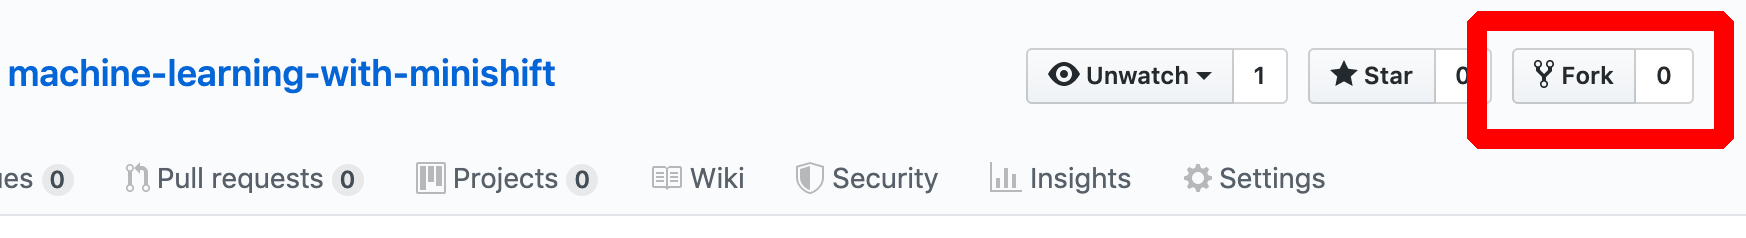
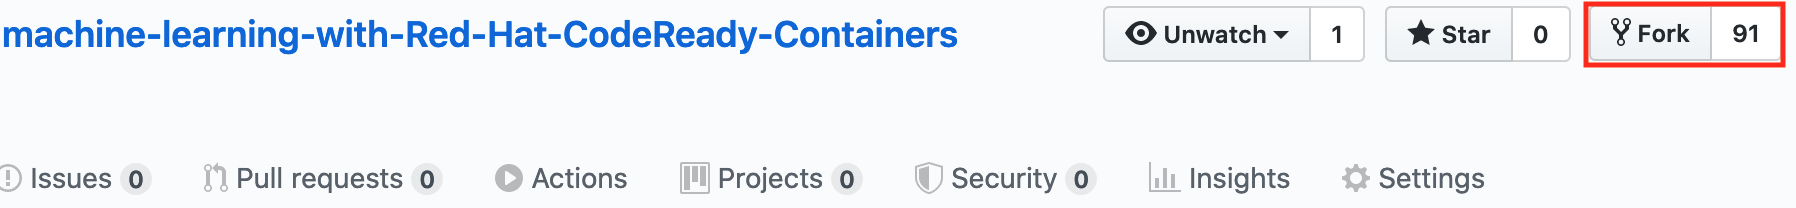
Application code

Changed region(s): [[0.5876, 0.0, 1.0, 0.6346], [0.0, 0.6923, 0.8351, 0.9519], [0.0, 0.0865, 0.5567, 0.4038]]

diff --git a/train.py b/train.py
@@ -1,0 +1,68 @@
+import tensorflow as tf
+import keras
+from keras.datasets import mnist
+from keras.models import Sequential
+from keras.layers import Dense, Dropout, Flatten
+from keras.layers import Conv2D, MaxPooling2D
+from keras import backend as K
+
+def start():
+
+    batch_size = 128
+    num_classes = 10
+    epochs = 12
+
+    # input image dimensions
+    img_rows, img_cols = 28, 28
+
+    # the data, split between train and test sets
+    (x_train, y_train), (x_test, y_test) = mnist.load_data()
+
+
+    if K.image_data_format() == 'channels_first':
+        x_train = x_train.reshape(x_train.shape[0], 1, img_rows, img_cols)
+        x_test = x_test.reshape(x_test.shape[0], 1, img_rows, img_cols)
+        input_shape = (1, img_rows, img_cols)
+    else:
+        x_train = x_train.reshape(x_train.shape[0], img_rows, img_cols, 1)
+        x_test = x_test.reshape(x_test.shape[0], img_rows, img_cols, 1)
+        input_shape = (img_rows, img_cols, 1)
+
+    x_train = x_train.astype('float32')
+    x_test = x_test.astype('float32')
+    x_train /= 255
+    x_test /= 255
+    print('x_train shape:', x_train.shape)
+    print(x_train.shape[0], 'train samples')
+    print(x_test.shape[0], 'test samples')
+
+    # convert class vectors to binary class matrices
+    y_train = keras.utils.to_categorical(y_train, num_classes)
+    y_test = keras.utils.to_categorical(y_test, num_classes)
+
+    model = Sequential()
+    model.add(Conv2D(32, kernel_size=(3, 3),
+                    activation='relu',
+                    input_shape=input_shape))
+    model.add(Conv2D(64, (3, 3), activation='relu'))
+    model.add(MaxPooling2D(pool_size=(2, 2)))
+    model.add(Dropout(0.25))
+    model.add(Flatten())
+    model.add(Dense(128, activation='relu'))
+    model.add(Dropout(0.5))
+    model.add(Dense(num_classes, activation='softmax'))
+
+    model.compile(loss=keras.losses.categorical_crossentropy,
+                optimizer=keras.optimizers.Adadelta(),
+                metrics=['accuracy'])
+
+    model.fit(x_train, y_train,
+            batch_size=batch_size,
+            epochs=epochs,
+            verbose=1,
+            validation_data=(x_test, y_test))
+    score = model.evaluate(x_test, y_test, verbose=0)
+    print('Test loss:', score[0])
+    print('Test accuracy:', score[1])
+
+    model.save('mnist.h5')

diff --git a/server.py b/server.py
@@ -1,0 +1,30 @@
+from flask import Flask, request
+from flask import render_template
+import keras, sys, json
+import numpy as np
+application = Flask(__name__)
+
+stored_model = None
+
+@application.route("/")
+def hello():
+    return render_template('index.html')
+
+@application.route("/predict", methods=['POST'])
+def classifyCharacter():
+    global stored_model
+
+    body = request.get_json()
+
+    reshapedData = np.array(body['data'])
+    reshapedData = reshapedData.reshape(1,28,28,1)
+
+    return json.dumps( { 'prediction' : int(stored_model.predict_classes( reshapedData )[0]) } ) 
+
+def start():
+    global stored_model
+
+    stored_model = keras.models.load_model('mnist.h5')
+    stored_model._make_predict_function()
+
+    application.run(host='0.0.0.0', port=8080)

diff --git a/app.py b/app.py
@@ -1,0 +1,18 @@
+import tensorflow as tf
+import os.path
+
+import server
+
+# Check if pre-trained model already exists
+if not os.path.exists('mnist.h5'):
+    import train
+
+    train.start()
+
+    print('Training complete. Starting server')
+    server.start()
+
+else:
+    print('Model exists. Starting server')
+    server.start()
+

diff --git a/README.md b/README.md
@@ -2,9 +2,11 @@
 
 ## Machine learning dependencies are a hassle...
 
+Note: this lab is an adaptation of initial lab https://github.com/IBMDeveloperUK/machine-learning-with-minishift from Sean Tracey. This initial version is usinig Minishift, the local version of OpenShift v3. Present version is using Red Hat Code Ready Containers, which is local version of OpenShift v4.
+
 Between ensuring that the right version Python/Pip are installed on your system, and that it doesn't conflict with other Python/Pip versions on your system AND that when you deploy your model to the cloud that the versions of the dependencies you've used in your projects are still compatible with the version on your cloud-based system, it's a wonder that we ever get any time to focus on building and training our neural networks.
 
-Fortunately, there's a way to ensure that all of this is a never a problem again - Containers! (specifically, [Minishift](https://github.com/minishift/minishift) )
+Fortunately, there's a way to ensure that all of this is a never a problem again - Containers! (specifically, [Red Hat Code Ready Containers](https://developers.redhat.com/blog/2019/09/05/red-hat-openshift-4-on-your-laptop-introducing-red-hat-codeready-containers/)
 
 With containers, we can create a clean, virtual environment to setup and train our neural networks in and then deploy them at scale with the _exact same_ same environment. No more dependency hell!
 
@@ -26,9 +28,9 @@ Cracking, then let's get started!
 
 1) How to build a Convolutional Neural Network (CNN) that can detect handwritten digits (with Keras and the MNIST dataset)
 2) How to train and deploy a CNN with the Flask web framework and Keras
-3) How to install and run Minishift (a locally run OpenShift cluster of one image) on your machine
+3) How to install and run Red Hat Code Ready Containers (a locally run OpenShift cluster) on your machine
 4) How to create a project in OpenShift
-5) How to create an app in OpenShift and pull the source code for application from GitHub
+5) How to create an Python app in OpenShift and pull the source code for your application from GitHub
 
 By the end, you'll end up with a natty web app that will tell you what characters you're drawing, that'll look like this:
 
@@ -36,12 +38,12 @@ By the end, you'll end up with a natty web app that will tell you what character
 
 ## Before We Start...
 
-It's probably best that you install Minishift before we start diving into neural networking goodness. [Mofe Salami](https://twitter.com/Moffusa) has put together a [fantastic workshop](https://github.com/IBMDeveloperUK/minishift101/tree/master/workshop) that walks you through the installation and basic setup of Minishift. If you pop on over there and follow just the setup steps of the workshop, then head back here, we'll be good to crack on.
+It's probably best that you install Red Hat Code Ready Containers (CRC for short) before we start diving into neural networking goodness. Please have a look at [this article](https://developers.redhat.com/blog/2019/09/05/red-hat-openshift-4-on-your-laptop-introducing-red-hat-codeready-containers/) that walks you through the installation and basic setup of CRC. If you pop on over there and follow just the setup steps, then head back here, we'll be good to crack on.
 
 ## You Will Need:
 
 1. A GitHub account
-2. A macOS/Windows/Linux system capable of running Minishift
+2. A macOS/Windows/Linux system capable of running CRC (see prerequisites [here](https://developers.redhat.com/blog/2019/09/05/red-hat-openshift-4-on-your-laptop-introducing-red-hat-codeready-containers/))
 3. A modern web browser
 
 ## Recognising Handwritten Digits with Keras + the MNIST Dataset
@@ -56,7 +58,7 @@ Training neural networks (NNs) to classify handwritten digits has become somethi
 
 The code in this repo is a scaffold for the neural network and app that you'll end up with if you follow this workshop to the end.
 
-So we can get the full benefit of Minishift's ability to pull code from a centralised repository and deploy it, you'll need to fork this repo to create your own version of it to work from.
+So we can get the full benefit of CRTC's ability to pull code from a centralised repository and deploy it, you'll need to fork this repo to create your own version of it to work from.
 
 You can do that with the following steps
 
@@ -81,7 +83,7 @@ This will create a copy of this repository that you'll be able to make changes t
 If you take a moment to look at the project you just cloned, you'll see a bunch of files and folders. Here is a brief description of each one
 
 1. `reference` - A complete implementation of the project that we'll be making.
-2. `app.py` - The main entry point for our program. When we run our project shortly, Minishift will look for and execute this script
+2. `app.py` - The main entry point for our program. When we run our project shortly, CRC will look for and execute this script
 3. `requirements.txt` - A text file which describes which dependencies our project will need to install to support our program.
 4. `server.py` - The code that will serve our prediction web app.
 5. `train.py` - The code that contains our neural network which will begin training the first time we run our app.
@@ -285,7 +287,7 @@ def classifyCharacter():
     return json.dumps( { 'prediction' : int(stored_model.predict_classes( reshapedData )[0]) } )
 ```
 
-Our first route will serve the `index.html` file from the `resources` folder (included when from the repo that we forked our copy from) when a request is made to `/` on our server.
+Our first route will serve the `index.html` file from the `resources` folder (created from the repo that we forked our copy from) when a request is made to `/` on our server.
 
 The second route will accept an array of pixel values passed in a JSON formatted array to `/predict`. These values will be reshaped to fit the dimensions that our neural network expects as input, and will then be classified by the network. The result of the neural network is then passed back as a response to the request as a JSON formatted object.
 
@@ -303,7 +305,7 @@ def start():
 
 Before we start listening for requests from client, we need to load our trained model for classifying our inputs with `keras.models.load_model('mnist.h5')`.
 
-Once that's loaded, we'll tell our Flask server to start listening for requests. By default, Minishift will pass through traffic to an application on port `8080`. As such, we will tell our server to listen for requests on that port.
+Once that's loaded, we'll tell our Flask server to start listening for requests. By default, CRC will pass through traffic to an application on port `8080`. As such, we will tell our server to listen for requests on that port.
 
 ## To train, or to serve?
 
@@ -339,7 +341,7 @@ else:
 
 That's it! We now have everything we need to train a model, serve the same model, and deploy it to an OpenShift cluster!
 
-Now, after all of this hard work, it's time to put it somewhere that our Minishift cluster will be able to find it, so we'll commit our changes and then push them back to GitHub.
+Now, after all of this hard work, it's time to put it somewhere that our CRC cluster will be able to find it, so we'll commit our changes and then push them back to GitHub.
 
 Head to your terminal and run the following commands in the directory you cloned your fork of the repo to:
 
